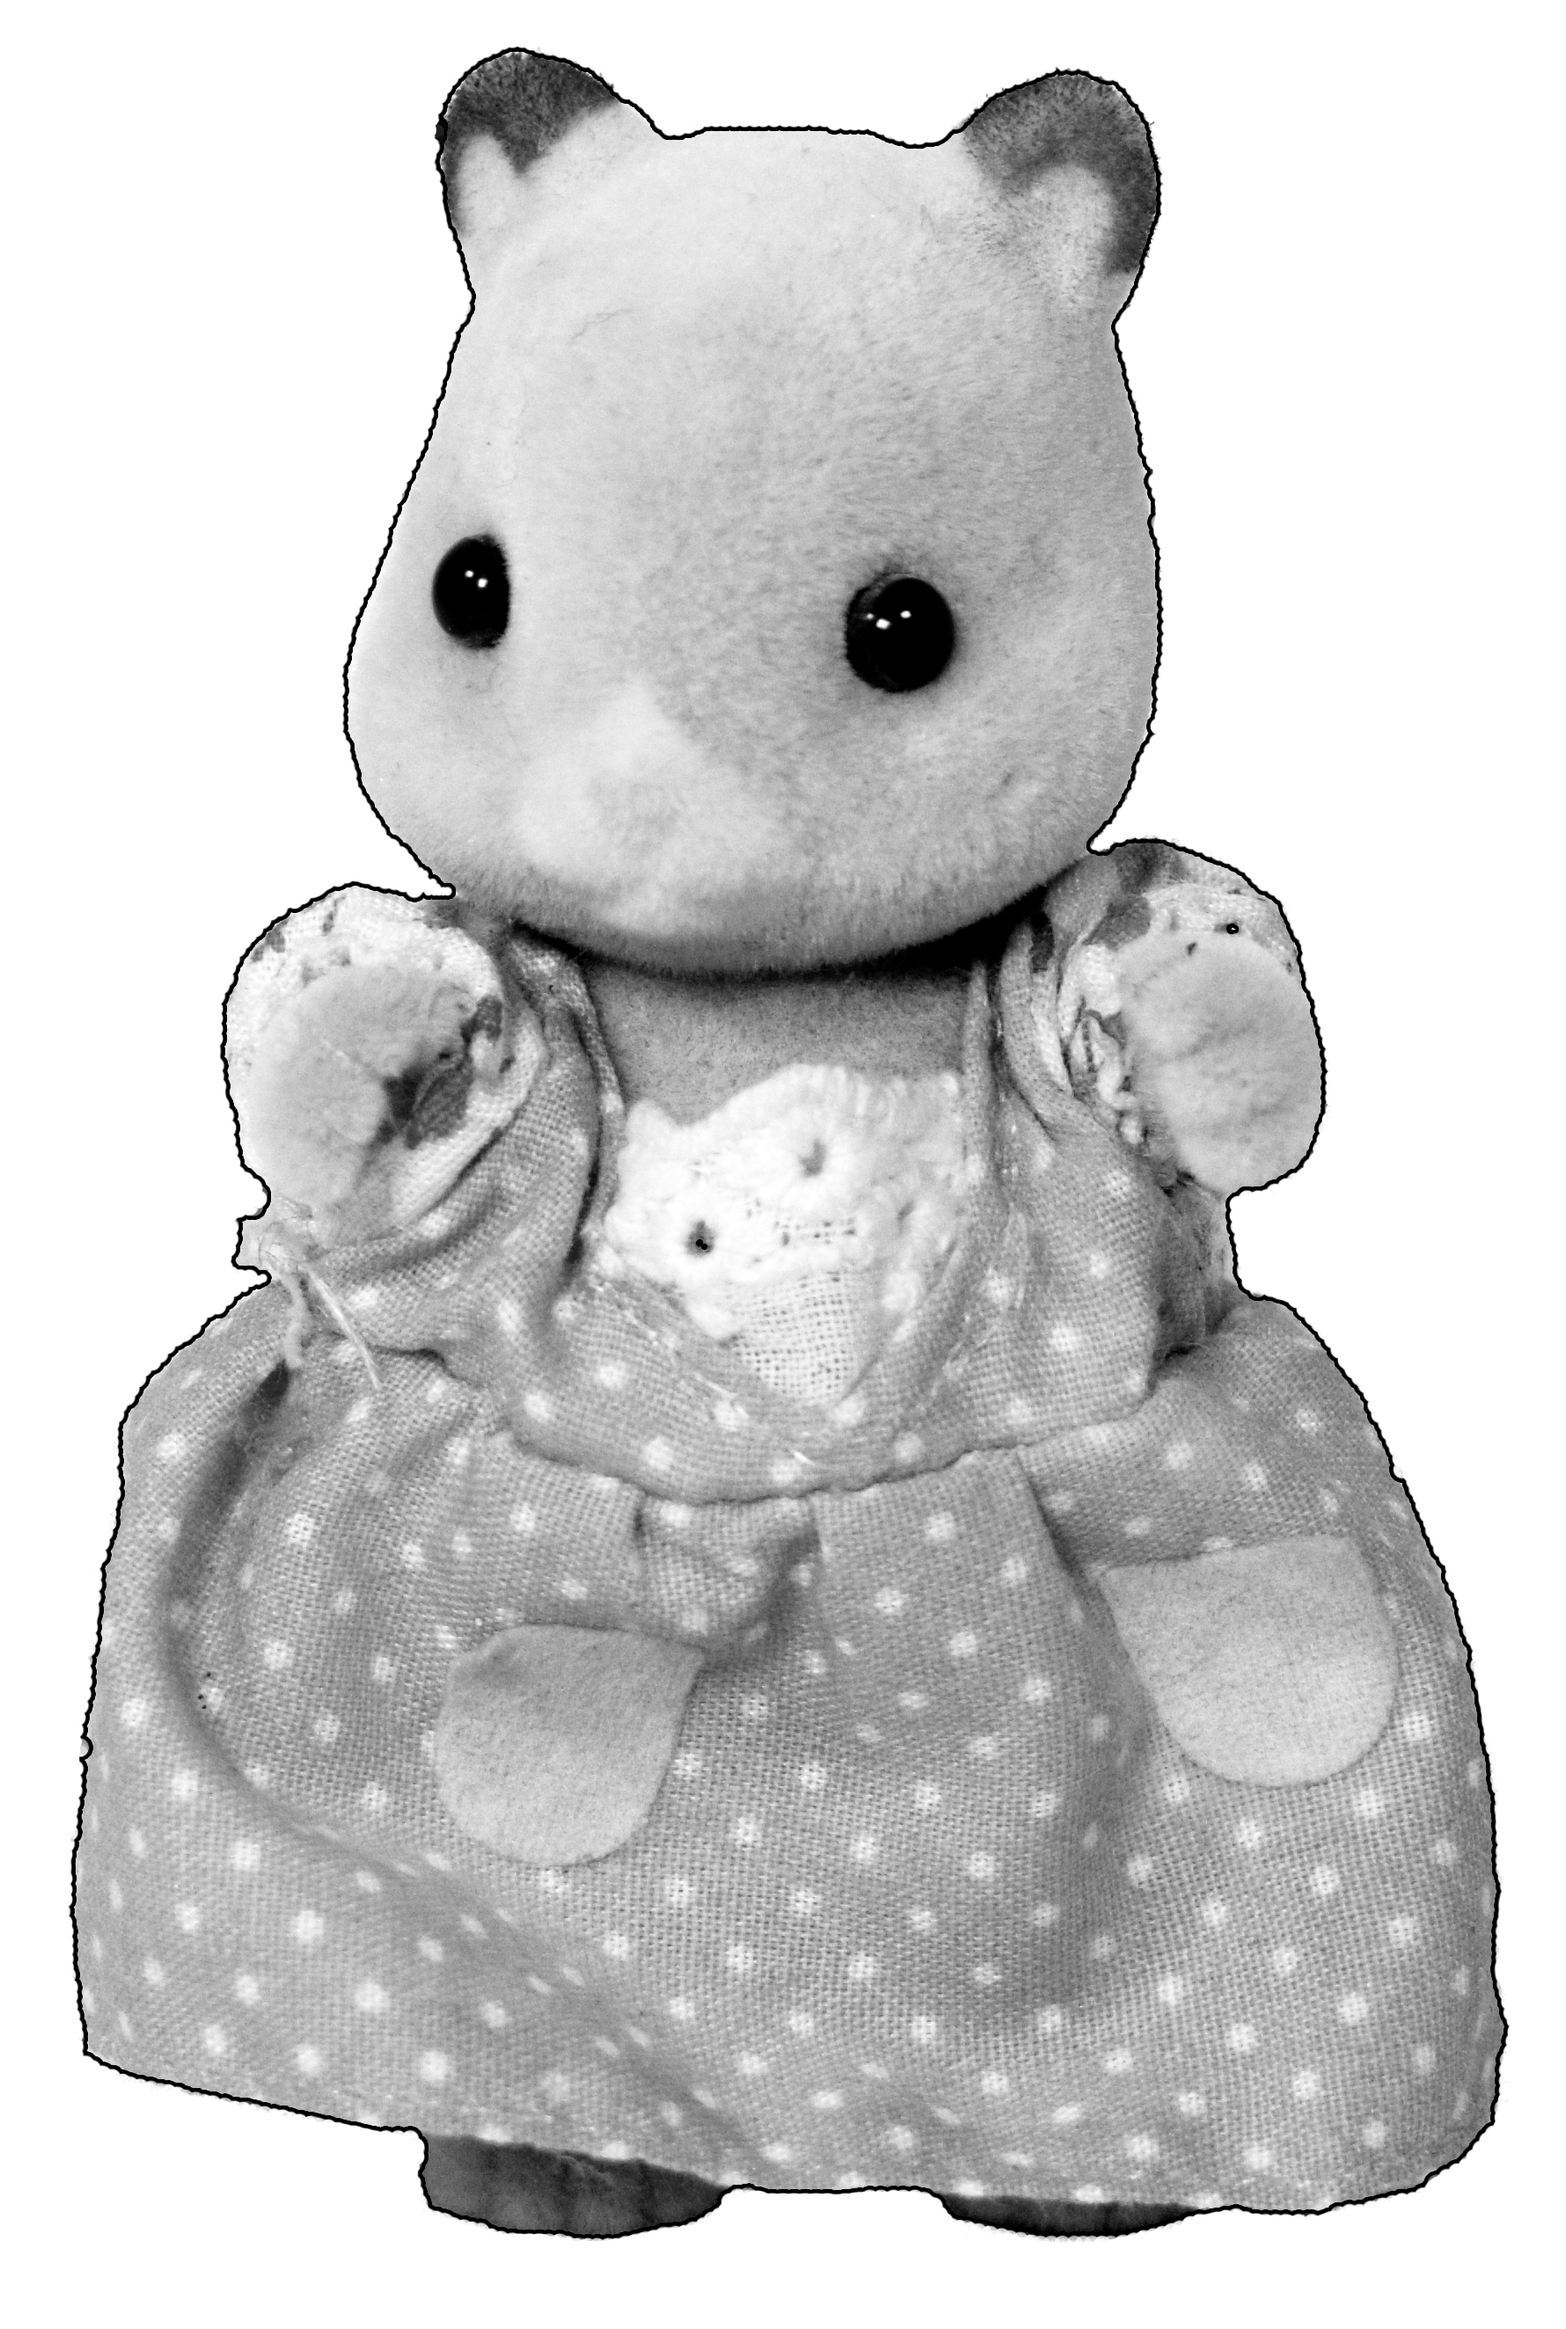
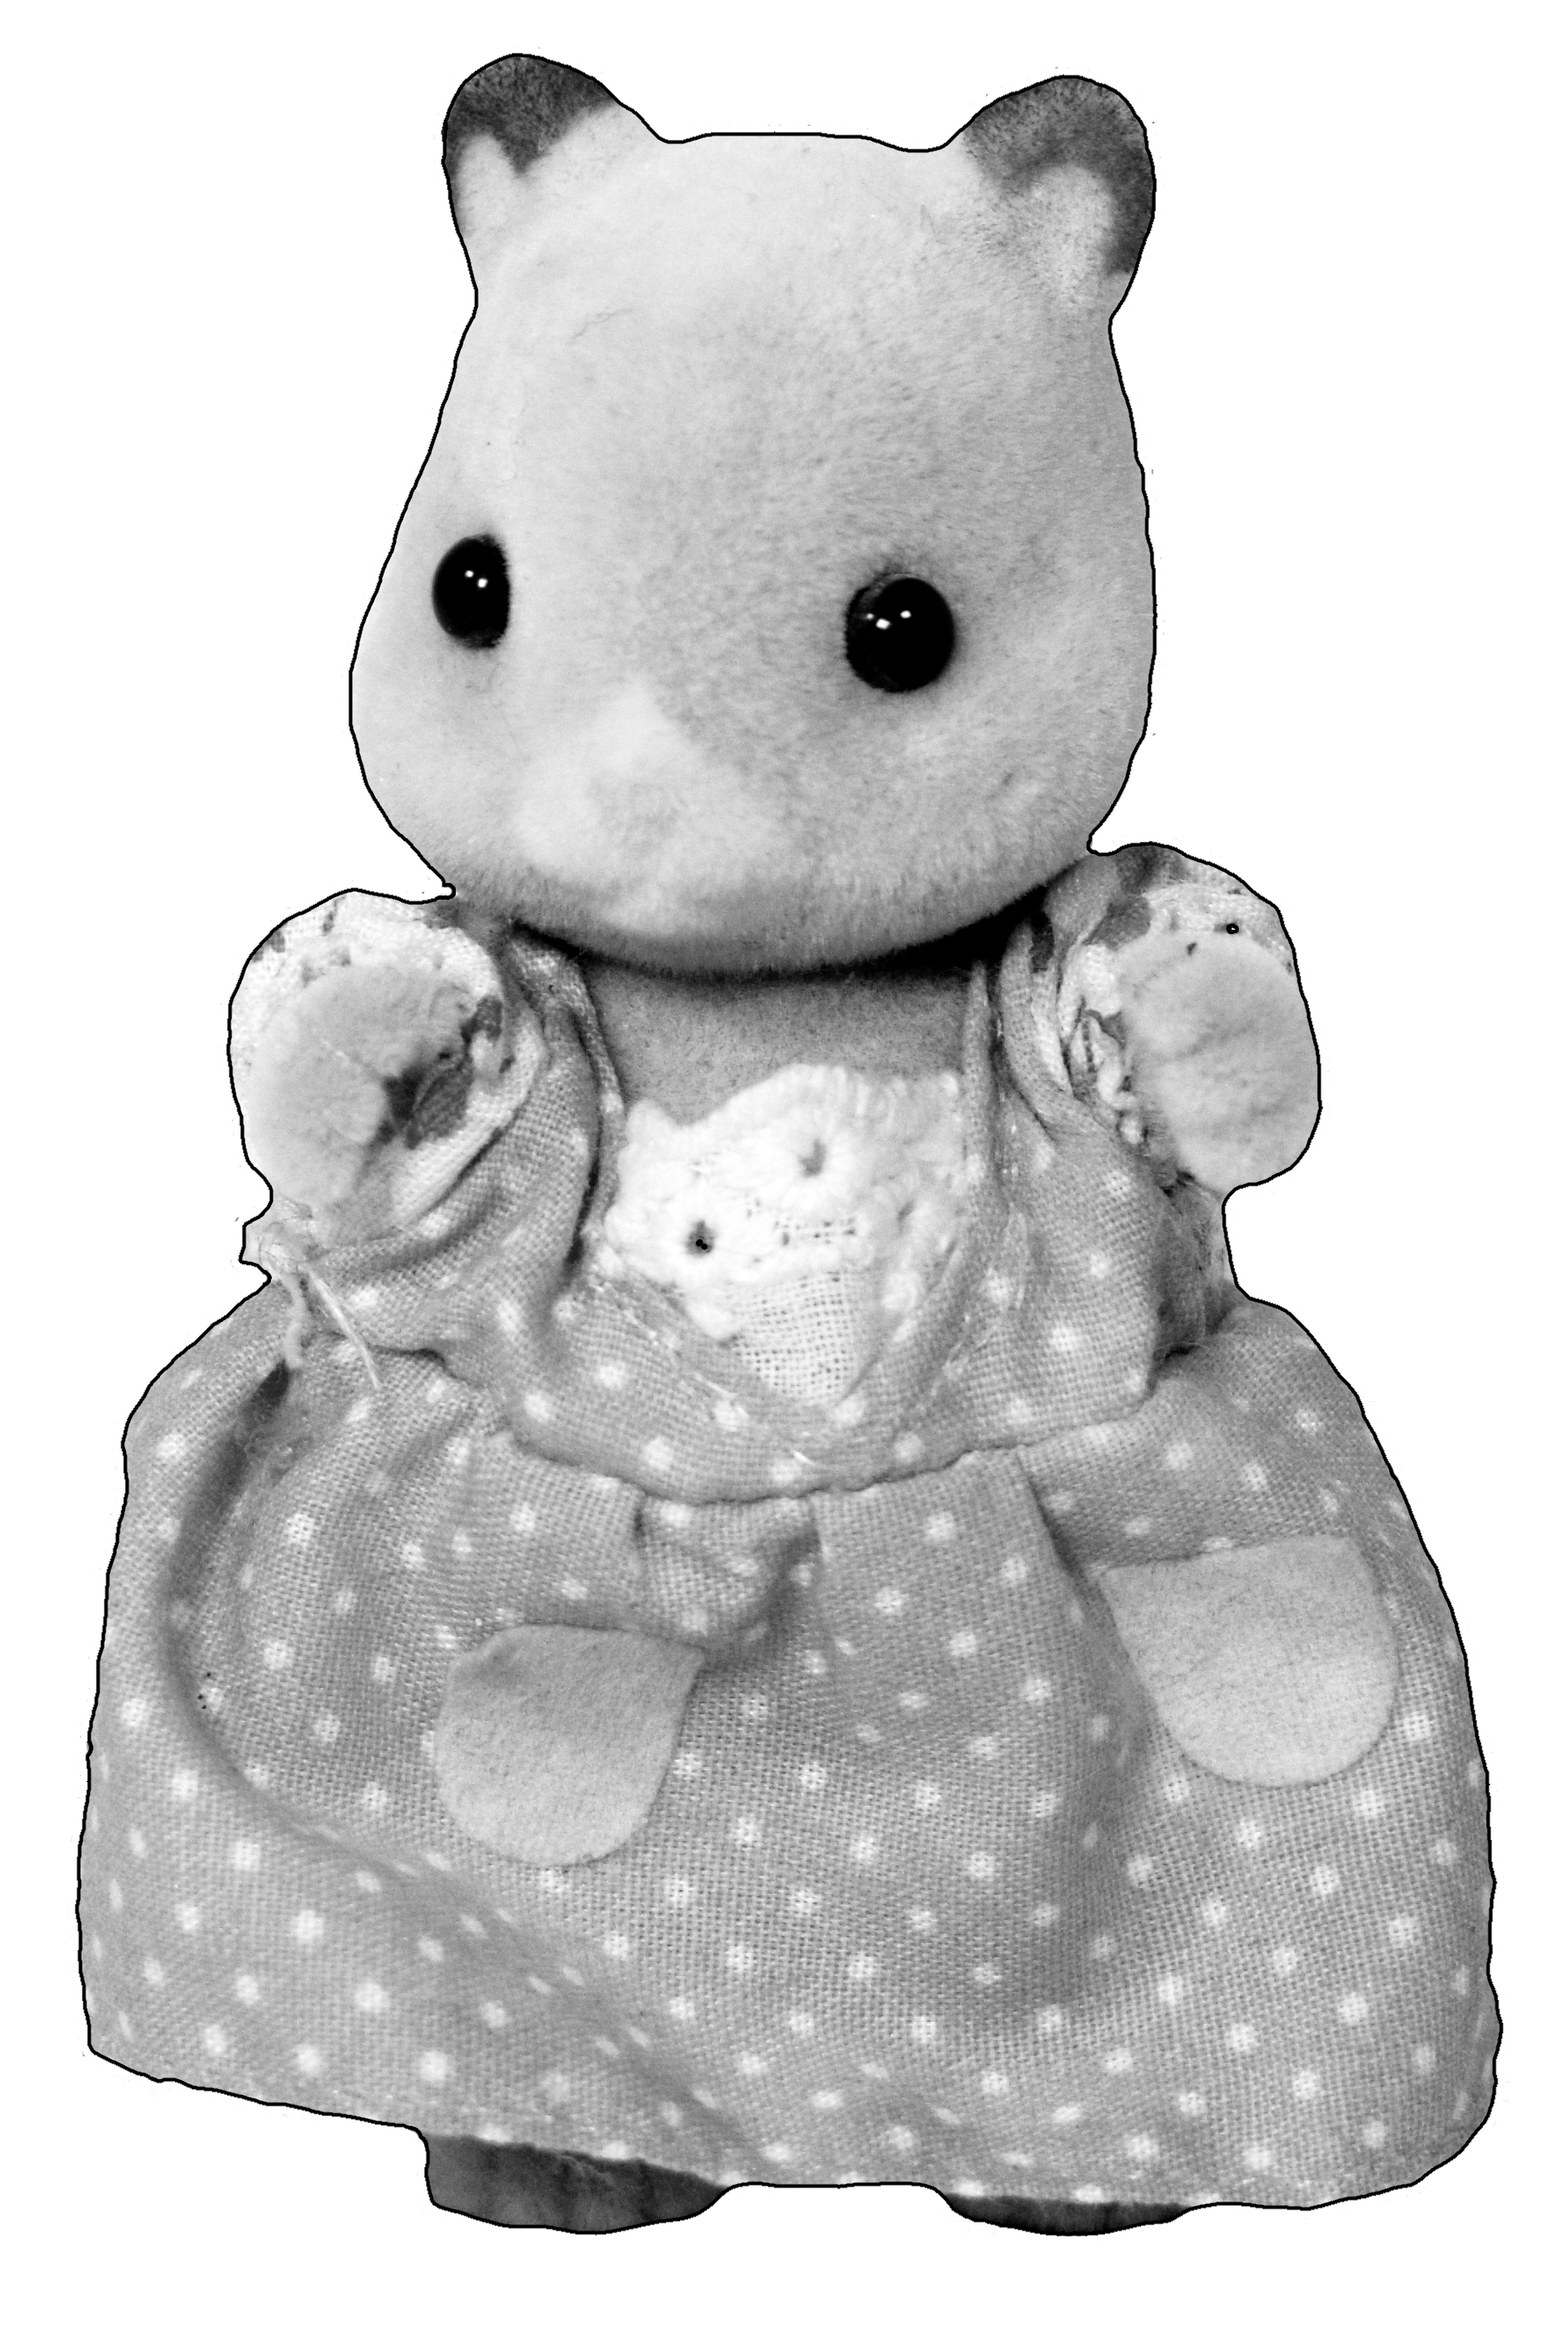
add clean reference pictures with stroke

diff --git a/Analyzer.py b/Analyzer.py
@@ -143,7 +143,7 @@ class Analyzer:
         return gray
 
     @staticmethod
-    def canny_edge_detector1(path, lowthreshold=100, highthreshold=250, save_pic=False):
+    def canny_edge_detector1(path, lowthreshold=50, highthreshold=250, save_pic=False, out='out1.jpg'):
         img = cv2.imread(path, 0)
         edges = cv2.Canny(img, lowthreshold, highthreshold)
         plt.subplot(121), plt.imshow(img, cmap='gray')
@@ -151,11 +151,11 @@ class Analyzer:
         plt.subplot(122), plt.imshow(edges, cmap='gray')
         plt.title('Edge Image'), plt.xticks([]), plt.yticks([])
         if save_pic:
-            plt.savefig('out1.jpg')
+            plt.savefig(out)
         plt.show()
 
     @staticmethod
-    def canny_edge_detector2(path, save_pic=False):
+    def canny_edge_detector2(path, save_pic=False, out='out2.jpg'):
         img = mpimg.imread(path)
         img = Analyzer.rgb2gray(img)
         plt.subplot(121), plt.imshow(img, 'gray'), plt.title('Original Image'), plt.xticks([]), plt.yticks([])
@@ -168,5 +168,5 @@ class Analyzer:
         detect_image = detector.detect()
         plt.subplot(122), plt.imshow(detect_image[0], 'gray'), plt.title('Edge Image'), plt.xticks([]), plt.yticks([])
         if save_pic:
-            plt.savefig('out2.jpg')
+            plt.savefig(out)
         plt.show()

diff --git a/main.py b/main.py
@@ -26,8 +26,10 @@ if __name__ == "__main__":
     # person = Participant("aliza")
     # person.plot_participant_pictures()
 
-    Analyzer.canny_edge_detector1('clean_refs_pics/D01_stroke.JPG', save_pic=True)
-    Analyzer.canny_edge_detector2('clean_refs_pics/D01_stroke.JPG', save_pic=True)
+    Analyzer.canny_edge_detector1('clean_refs_pics/D02_stroke_2.jpg', save_pic=True, out='out1.jpg')
+
+
+    Analyzer.canny_edge_detector2('clean_refs_pics/D02_stroke_2.jpg', save_pic=True, out='out2.jpg')
 
 
 
